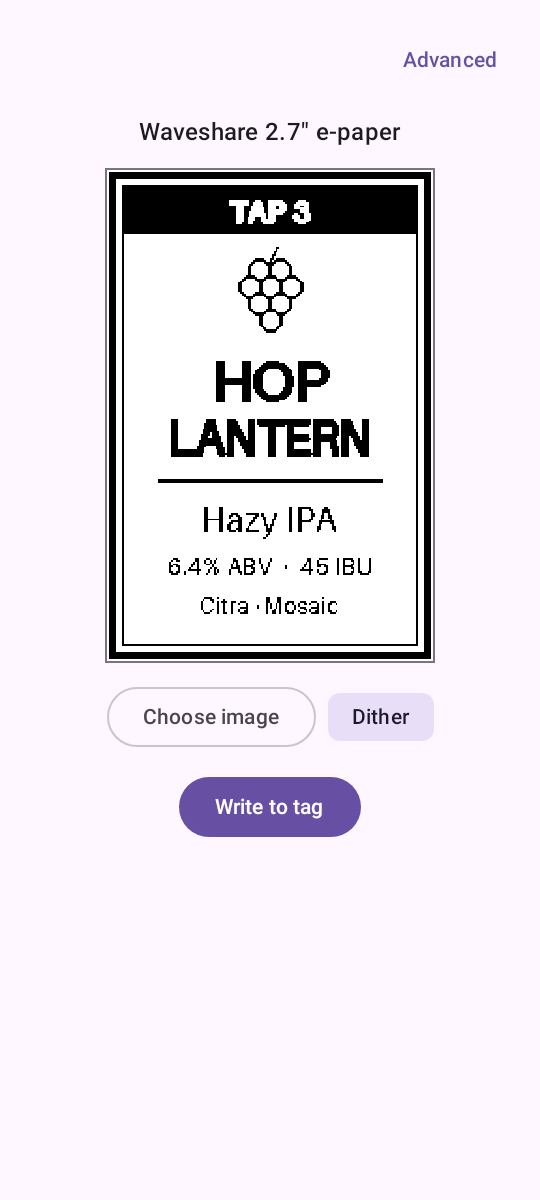
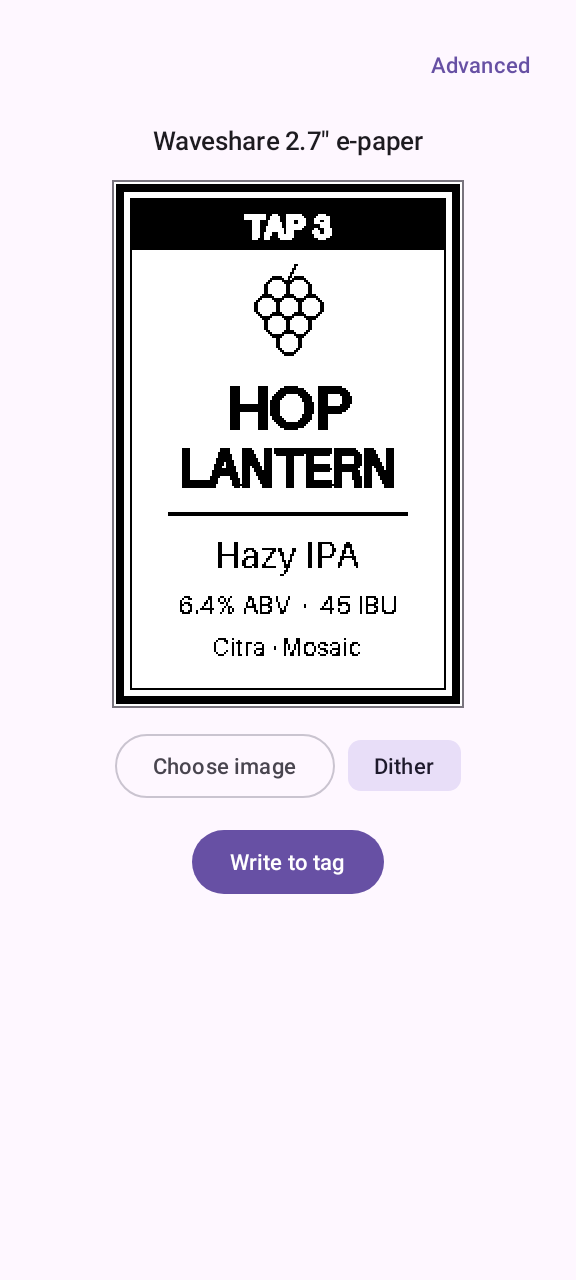
test: scale the Android preview by a whole number in screenshots
At 1.5x the preview's nearest-neighbour scaling rounded differently on the
Linux CI runner than on macOS. At 1.6x the label scales by exactly 2.

Refs #48

Claude-Session: https://claude.ai/code/session_01Smz7VxVuP9s6BsRWaCHERj

diff --git a/sharedUI/src/androidHostTest/kotlin/io/github/cacack/keginker/ScreenshotTest.kt b/sharedUI/src/androidHostTest/kotlin/io/github/cacack/keginker/ScreenshotTest.kt
@@ -75,7 +75,9 @@ private val DEVICE = DeviceInfo(manufacturer = "Google", model = "Pixel 8", os =
  */
 @RunWith(RobolectricTestRunner::class)
 @GraphicsMode(GraphicsMode.Mode.NATIVE)
-@Config(sdk = [35], qualifiers = "w360dp-h800dp-hdpi")
+// At 256 dpi (1.6x) the 220 dp preview scales the 176-pixel label by exactly 2;
+// at a fractional scale, pixel rounding differs between macOS and Linux.
+@Config(sdk = [35], qualifiers = "w360dp-h800dp-256dpi")
 class ScreenshotTest {
     @get:Rule
     val compose = createComposeRule()
